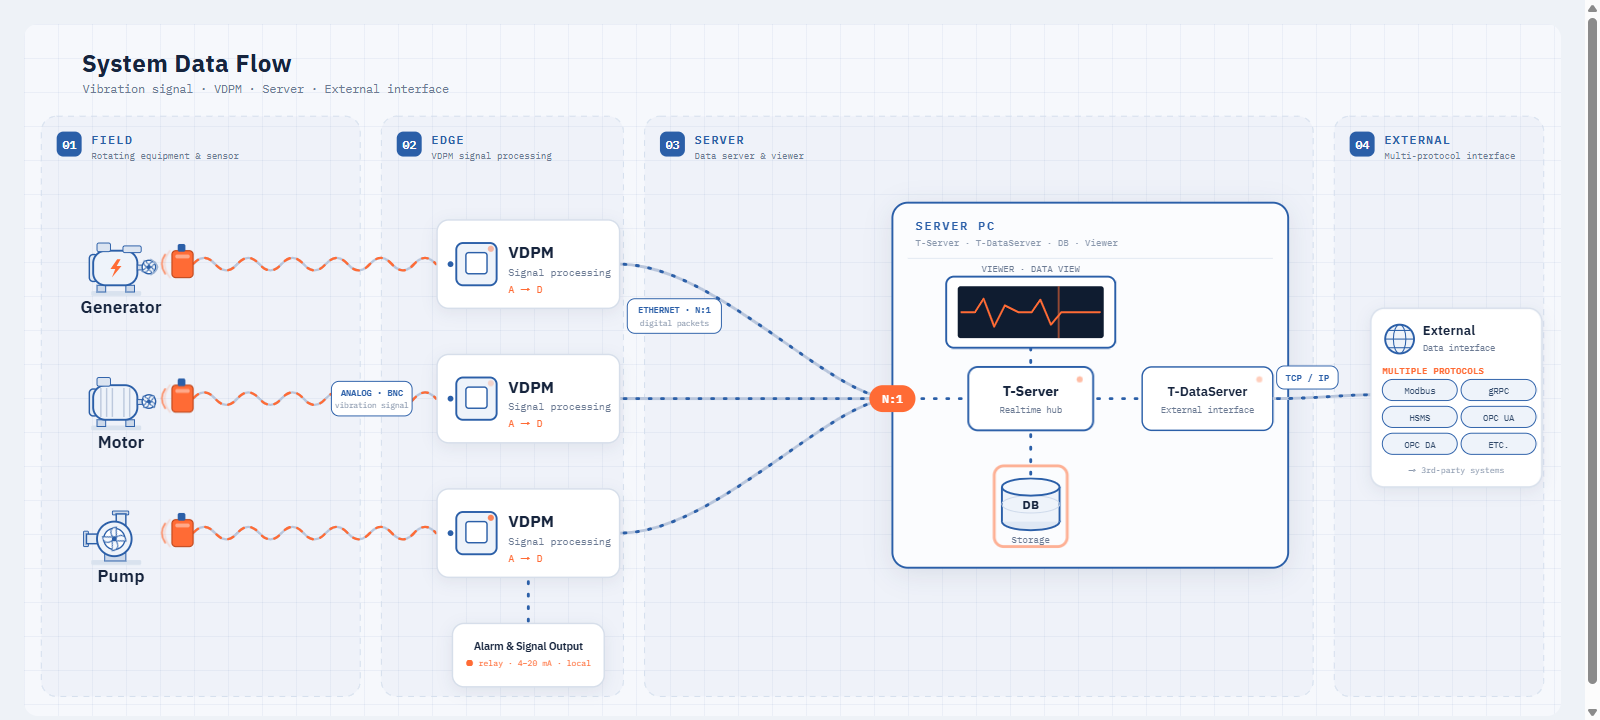
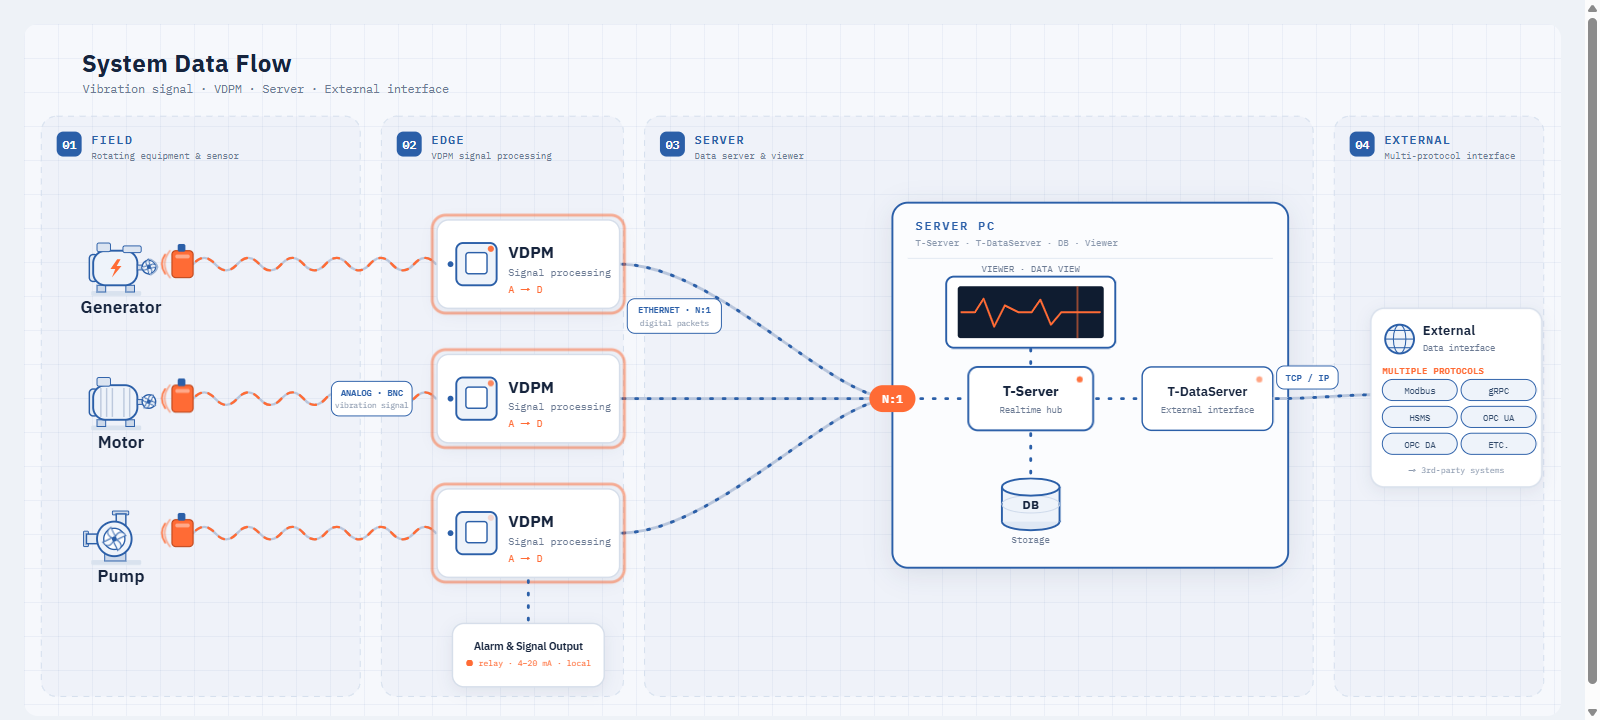
Flatten VDPM frame; fold Tech Stack into the Colophon
- VDPM embed: drop the redundant outer wrapper frame (border/background) and
  make the iframe body transparent so the diagram isn't a box-in-a-box; refresh
  the print snapshot to match.
- Tech Stack: move it into the "마치며" (making-of) section as a sub-block
  titled "이 사이트를 만든 기술 스택", so it reads as the site's build stack —
  not the applicant's personal skill set. Remove the standalone section.
- Stack cards: separate bordered cards (no empty grid cell in the narrow column).

diff --git a/src/App.tsx b/src/App.tsx
@@ -940,7 +940,6 @@ export default function App() {
         </section>
 
         <ColophonSection />
-        <TechStackSection />
         <ContactSection />
         <BgmSection />
       </main>
@@ -1358,29 +1357,6 @@ function MotivationSection() {
   );
 }
 
-function TechStackSection() {
-  return (
-    <section className="stack" id="stack">
-      <div className="wrap">
-        <span className="eyebrow">Tech Stack</span>
-        <Editable as="h2" className="stack-title" id="stack.title" value="기술 스택" />
-        <div className="stack-grid">
-          {techStack.map((category) => (
-            <div className="stack-cat" key={category.label}>
-              <div className="dh">{category.label}</div>
-              <div className="stack-chips">
-                {category.items.map((item) => (
-                  <em key={item}>{item}</em>
-                ))}
-              </div>
-            </div>
-          ))}
-        </div>
-      </div>
-    </section>
-  );
-}
-
 function ColophonSection() {
   return (
     <section className="colophon" id="colophon">
@@ -1396,6 +1372,20 @@ function ColophonSection() {
             ))}
           </ol>
           <Editable as="p" className="colophon-p" id="colophon.after" value={colophonAfter} />
+
+          <Editable as="h3" className="colophon-sub" id="colophon.stacktitle" value="이 사이트를 만든 기술 스택" />
+          <div className="stack-grid">
+            {techStack.map((category) => (
+              <div className="stack-cat" key={category.label}>
+                <div className="dh">{category.label}</div>
+                <div className="stack-chips">
+                  {category.items.map((item) => (
+                    <em key={item}>{item}</em>
+                  ))}
+                </div>
+              </div>
+            ))}
+          </div>
 
           <Editable as="h3" className="colophon-sub" id="colophon.subtitle" value={colophonSubtitle} />
           <ol className="colophon-strengths">

diff --git a/src/styles.css b/src/styles.css
@@ -501,12 +501,10 @@ section {
 .vdpm-embed-wrap {
   position: relative;
   width: 100%;
-  margin-top: 40px;
+  margin-top: 32px;
   aspect-ratio: 1600 / 720;
   overflow: hidden;
-  border: 1px solid var(--border);
-  border-radius: 14px;
-  background: #eef2f7;
+  background: transparent;
 }
 
 .vdpm-embed {
@@ -1596,16 +1594,14 @@ section {
 .stack-grid {
   display: grid;
   grid-template-columns: repeat(auto-fit, minmax(180px, 1fr));
-  gap: 1px;
-  margin-top: 32px;
-  overflow: hidden;
-  border: 1px solid var(--border);
-  border-radius: 16px;
-  background: var(--border);
+  gap: 10px;
+  margin-top: 18px;
 }
 
 .stack-cat {
-  padding: 22px;
+  padding: 18px;
+  border: 1px solid var(--border);
+  border-radius: 12px;
   background: #ffffff;
 }
 

diff --git a/public/vdpm-flow.html b/public/vdpm-flow.html
@@ -5,7 +5,7 @@
   <title>VDPM System Data Flow</title>
   <style>
     * { margin: 0; padding: 0; box-sizing: border-box; }
-    body { background: #eef2f7; display: flex; align-items: center; justify-content: center; min-height: 100vh; font-family: -apple-system, BlinkMacSystemFont, sans-serif; }
+    body { background: transparent; display: flex; align-items: center; justify-content: center; min-height: 100vh; font-family: -apple-system, BlinkMacSystemFont, sans-serif; }
     #__bundler_loading { position: fixed; bottom: 20px; right: 20px; font: 13px/1.4 -apple-system, BlinkMacSystemFont, sans-serif; color: #666; background: #fff; padding: 8px 14px; border-radius: 8px; box-shadow: 0 1px 4px rgba(0,0,0,0.12); z-index: 10000; }
     #__bundler_thumbnail { position: fixed; inset: 0; width: 100%; height: 100%; display: flex; align-items: center; justify-content: center; background: #eef2f7; z-index: 9999; }
     #__bundler_thumbnail svg { width: 100%; height: 100%; object-fit: contain; }